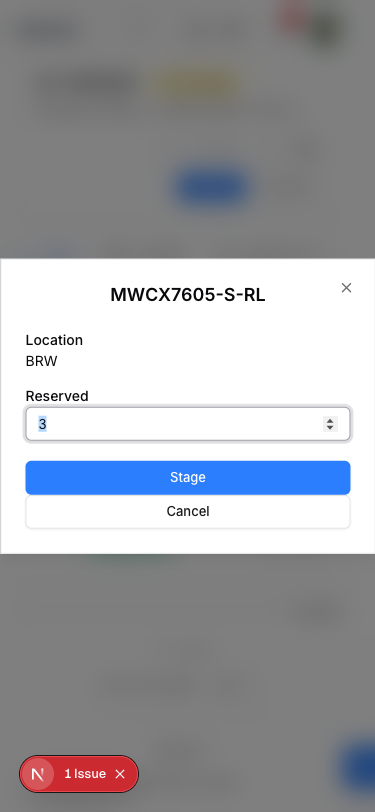
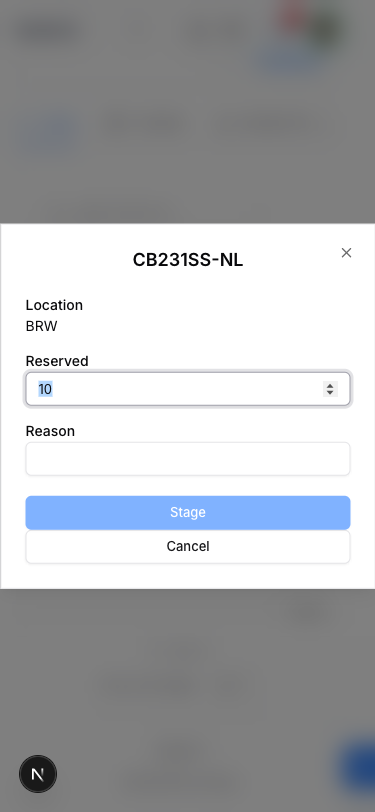
docs(scm): round 4 browser evidence rerun after the 6e.4 fix round (AC-RS-90 in full)
OI-001395 walked from the sidebar at 1280 and 375: three lines requested, the ?reserve=
link preselecting Request to reserve, tick + short pencil committed by Reserve (2), the
outbox row naming both lines with 1 line still to reserve, an amend, History, a Reserve 0
line reading Not reserved and amended up. Explains the Next dev "1 Issue" badge
(pre-existing Demo1Layout key warning). Outbox rows stay pending on the lane (0 sent).
Superseded captures from the first round 4 walk removed.

diff --git a/documentation/plans/scm/evidence/oi-request-cs-reserve/round4/EVIDENCE.md b/documentation/plans/scm/evidence/oi-request-cs-reserve/round4/EVIDENCE.md
@@ -1,55 +1,76 @@
-# Round 4 browser evidence (AC-RS-90)
+# Round 4 browser evidence (AC-RS-90 rerun after the 6e.4 fix round)
 
-agent-browser, session `oireserve-r4`, :3080 from `/` by sidebar (Procurement -> Supply
-Chain -> Order Inquiries), logged in as `tehjayson@gmail.com` (holds both the requester
-and reserve permissions on this stack, so one login covers both roles this walk needs).
-Live OI: `OI-000020` (`fe55c311-7275-4727-8000-4bb5e7501137`), lines MWCX7605-S-RL /
-MWCY7605 / MKT5529SS-DIY, all `ORDER BACK`, qty 3 each - already carrying an OPEN reserve
-request #1 from an earlier session, which is what this walk answers.
+agent-browser 0.27.0, session `oireserve-r4-fix` (closed by name at the end), lane stack
+:3080 (FE, `npm run dev`) and :8080 (BE, `--reload`) from worktree
+`sorento_crm-oi-reserve`, database `sorento_oireserve_stack` at alembic head
+`oirs_0004_reserve_event_zero`. Reached from `/` by sidebar (Procurement -> Supply Chain ->
+Order Inquiries), then the list's All filter and a search for `OI-001395`. Logged in with
+the `E2E_EMAIL` account from `sorento_crm_frontend/.env.local`, which holds both the
+requester (`acknowledge`) and the reserve permission on this stack, so one login plays
+Joey and Eling.
 
-While driving this walk I found and fixed a real backend bug (see "Bug found and fixed"
-below) - the screenshots below are from AFTER that fix, on the live `--reload`d backend.
+Live OI: `OI-001395` (SO400884), four ORDER lines of 36 each at BRW-IR, none ever
+requested before this walk. Grid row order: CSH2072, CSA150, CB231SS-NL, CB4702. The
+three requested lines: line 1 = CSA150, line 2 = CB231SS-NL, line 3 = CB4702. Request
+id `e8f390f5-4232-4b17-9e93-fb6e921f4139` (read from the request mail's own link in
+`email_outbox`).
+
+Outbox rows are never sent from the lane: `ENABLE_SCHEDULER=false`, and the query below
+shows 0 of 5 rows for this OI in status `sent` (all `pending`).
 
 | AC | what was checked | file | result |
 | --- | --- | --- | --- |
-| AC-RS-83 | Lines grid State filtered to "Request to reserve": amber `Request to reserve 3` pills, tick + pencil icons, no header badge | `AC-RS-83-overview-1280.png` (plain `On PO/SPO` pill on an unrelated row, no reserve icons) | PASS |
-| AC-RS-84 | Tick on MWCX7605-S-RL stages `Reserve 3 @ BRW` chip + Undo, no dialog, nothing posted until commit | (see AC-RS-83-84-85 below) | PASS |
-| AC-RS-85 | Pencil on MWCY7605 opens `ReserveLineForm`, Location `SearchableSelect`, Reserved input, Reason field, staged `Reserve 2 @ BRW` chip | `AC-RS-83-84-85-lines-reserved.png` (post-commit state, both chips resolved to green pills) | PASS |
-| AC-RS-87 | Header `Reserve (2)` enabled once 2 rows staged; click posts ONE commit; toast `Reserved, Jayson Foundryx notified`; button greys back to disabled `Reserve` | `AC-RS-87-amend-committed-toast.png` | PASS |
-| n/a | Grid shows `Reserved 3` / `Reserved 2` green pills with tick, `Amend reserve` + `History` icons, after commit | `AC-RS-83-84-85-lines-reserved.png` | PASS |
-| n/a | One outbox row per commit, each naming only the rows THAT call touched, with "N line(s) still to reserve" (AC-RS-80/81) | DB check below | PASS |
-| AC-RS-86 | `Amend reserve` on MWCY7605 (already `Reserved 2`): Location renders as locked plain text `BRW` (no select), Reserved prefilled with the net (2); staged `Amend to 1` + Undo; committed via the SAME header CTA, toast fires again, pill becomes `Reserved 1` | `AC-RS-87-amend-committed-toast.png` (post-commit `Reserved 1`); `AC-RS-86-amend-form-375.png` (the form itself, at 375px, on the still-full row) | PASS |
-| AC-RS-89 | `History` opens `ReserveLineHistoryDialog`, newest first, `formatDateTime` (no raw ISO): `Unreserved 1 @ BRW - transferred back`, `Reserved 2 @ BRW - BRW only has 2 in stock`, `Requested 3 @ BRW` | `AC-RS-89-history-reserve-then-unreserve.png` | PASS |
-| AC-RS-88 | State `SearchableMultiSelect` (7 options in the UAC's own order: To buy, Partly on PO/SPO, On PO/SPO, Done, Cancelled, Request to reserve, Reserved), filters the grid live | `AC-RS-88-state-filter-1280.png` | PASS |
-| AC-RS-90 (375px) | Header `Reserve`/`Confirm` buttons and the Lines tab usable at 375px, no clipping; `ReserveLineForm` opens correctly at 375px (Stage/Cancel full width, no overflow) | `AC-RS-90-mobile-375.png`, `AC-RS-86-amend-form-375.png` | PASS |
+| AC-RS-83b | Before any request: no `Reserve actions` column on the grid (the inquiry has no open request and no reserved / declined line) | `AC-RS-83b-no-action-column-1280.png` | PASS |
+| AC-RS-90 step 1 | Joey ticks the three lines, Actions -> `Request CS to reserve`, dialog lists all three at BRW with availability, `Send request`; toast `Request #1 sent to Teh Jayson` | `AC-RS-90-1-request-three-lines-1280.png` | PASS |
+| AC-RS-88 | Following `?reserve=<request id>`: State filter preselected `Request to reserve`, three amber lines, no dialog, header `Reserve` disabled | `AC-RS-90-2-reserve-link-preselected-1280.png` | PASS |
+| AC-RS-84 | Tick on line 1 stages `Reserve 36 @ BRW` + Undo, nothing posted | `AC-RS-90-3-staged-two-lines-1280.png` | PASS |
+| AC-RS-85b | Pencil on line 2 opens `ReserveLineForm` only after the pools loaded: Reserved prefilled 36 (`min(36, BRW 54)`), Location BRW, Stage enabled | `AC-RS-85b-form-prefilled-1280.png` | PASS |
+| AC-RS-85 | Reserved 20 shows Reason and disables Stage until it is filled; staged `Reserve 20 @ BRW` | `AC-RS-85-form-short-with-reason-1280.png`, `AC-RS-90-3-staged-two-lines-1280.png` | PASS |
+| AC-RS-87 | Header `Reserve (2)` posts ONE commit; toast `Reserved, Teh Jayson notified`; button greys back to `Reserve` | `AC-RS-87-commit-toast-1280.png` | PASS |
+| AC-RS-90 step 2 | Filter cleared (URL loses `?reserve=`): line 1 `Reserved 36` and line 2 `Reserved 20` green with Amend + History, line 3 `Request to reserve 36` amber with tick + pencil; the action column header has no drag grip | `AC-RS-90-4-after-commit-green-amber-1280.png` | PASS |
+| AC-RS-80 | The commit's outbox row names lines 1 and 2 only, reason printed, and says `1 line still to reserve.` | `AC-RS-80-outbox-partial-commit-mail.png`, query below | PASS |
+| AC-RS-86 | Amend on line 2: Location locked (`BRW` text), Reserved prefilled 20 (the request row's own qty), Reason required below 36; staged `Amend to 10`, `Reserve (1)` committed, pill `Reserved 10` | `AC-RS-86-amend-form-1280.png`, `AC-RS-86-amend-form-375.png` | PASS |
+| AC-RS-89 | History on line 2, newest first through `formatDateTime`: `Unreserved 10 @ BRW` (reason), `Reserved 20 @ BRW` (reason), `Requested 36 @ BRW` | `AC-RS-89-history-reserve-then-amend-1280.png` | PASS |
+| AC-RS-83b / 78c | Pencil on line 3, Reserved 0 with a reason, `Reserve (1)`: line 3 reads `Not reserved` (neutral) with Amend + History | `AC-RS-83b-declined-not-reserved-1280.png` | PASS |
+| AC-RS-78b | Amend on the declined line: prefilled 0, set 15 with a reason, `Reserve (1)`: pill `Reserved 15`; History `Reserved 15`, `Reserved 0` (the Reserve 0 decision), `Requested 36` | `AC-RS-90-5-declined-amended-up-1280.png`, `AC-RS-89-history-declined-then-amended-1280.png` | PASS |
+| AC-RS-88 / 88b | State options: To buy, Partly on PO/SPO, On PO/SPO, Done, Request to reserve, Reserved (no Cancelled); `Done` alone reads `No line matches the filter.` | `AC-RS-88-state-filter-1280.png`, `AC-RS-88b-no-line-matches-1280.png` | PASS |
+| AC-RS-90 (375px) | Detail page and Lines tab usable at 375, no clipping (the grid scrolls inside its card); amend form fits, Stage/Cancel full width | `AC-RS-90-6-mobile-375.png`, `AC-RS-86-amend-form-375.png` | PASS |
 
-## Outbox rows (DB, `email_outbox` on `sorento_oireserve_stack`)
-
-Two rows for `Reserved: OI-000020 #1 - SO419851`, one per commit click, each naming only
-that click's own rows (AC-RS-81):
+## Outbox rows (`email_outbox` on `sorento_oireserve_stack`)
 
 ```
-created_at 02:57  to=jayson@foundryx.my cc=elingkoh@sorento.com.my
-  body contains MWCX7605(yes) MWCY7605(yes) MKT5529(no) "1 line still to reserve."(yes)
-created_at 03:07  to=jayson@foundryx.my cc=elingkoh@sorento.com.my
-  body contains MWCX7605(no) MWCY7605(yes) MKT5529(no) "1 line still to reserve."(yes)
+time      subject                                   status   CSA150 CB231SS-NL CB4702 still-to-reserve line
+04:20:04  Reserve request: OI-001395 #1 - SO400884  pending  yes    yes        yes    -
+04:23:56  Reserved: OI-001395 #1 - SO400884         pending  yes    yes        no     1 line still to reserve
+04:25:02  Reserved: OI-001395 #1 - SO400884         pending  no     yes        no     1 line still to reserve
+04:25:53  Reserved: OI-001395 #1 - SO400884         pending  no     no         yes    -
+04:27:44  Reserved: OI-001395 #1 - SO400884         pending  no     no         yes    -
+sent: 0 of 5
 ```
 
-## Bug found and fixed during this walk
+Row 2 is the `Reserve (2)` click (lines 1 and 2), row 3 the amend of line 2, row 4 the
+Reserve 0 on line 3 (the click that completed the request, so no "still to reserve"
+line), row 5 the amend-up of line 3.
 
-`_HAS_OPEN_RESERVE_REQUEST` and the new `_OPEN_REQUEST_QTY`
-(`order_inquiry_worklist_service.py`) tested only "does the row's PARENT request still
-carry state `requested`" - not "is THIS row's own answer still unset". Round 1-3's
-per-row route answered every row of a request in lockstep, so the parent's own state was
-an accurate proxy; round 4's `commit_request` can now answer PART of a request in one
-click while the parent stays `requested` until its last row lands, which the live walk
-surfaced immediately: after committing MWCX7605-S-RL (answered) while MKT5529SS-DIY (same
-request, still open) kept the parent at `requested`, the grid kept showing
-`Request to reserve 3` / the tick+pencil icons on the ALREADY-answered row instead of
-`Reserved 3` / amend+history - confirmed via `console.log` of the raw worklist API
-response (`reserve_state: "requested"` despite `order_inquiry_reserve_request_rows.
-qty_reserved = 3` in the database) and via a direct SQL replay of the subquery. Fixed by
-adding `OrderInquiryReserveRequestRow.qty_reserved.is_(None)` to both subqueries' own
-`WHERE`. Backend suite re-run green after the fix (111 passed:
-`test_order_inquiry_reserve.py` + `_round2.py` + `_commit.py` + `test_order_inquiry_
-worklist.py`); confirmed live via reload (screenshots above are all post-fix).
+## Found and fixed on this walk
+
+- The action column was 90px wide, so the staged chip truncated to a single letter
+  beside Undo. Widened to 240px, the chip carries a `title` (commit `d41a9fed8`); the
+  capture above is after the fix.
+
+## The Next dev "1 Issue" badge
+
+Opened on this walk (`next-dev-issue-overlay.png`): `Console Error: Each child in a list
+should have a unique "key" prop. Check the render method of Demo1Layout.` It appears on
+a full load of the dashboard `/` too, not only on this page, and
+`app/components/layouts/demo1/layout.tsx` is untouched by this lane (`git diff
+origin/main` is empty for it). A pre-existing app-shell dev warning, not caused by this
+feature; it does not show on every load, which is why some captures show the plain `N`
+button instead. Not fixed here (outside the lane).
+
+## Noted, not fixed
+
+- History times read `4:25 AM` for a write made at 12:25 MYT: reserve history
+  `created_at` is written with `datetime.utcnow()` (naive) and printed by
+  `formatDateTime` as if it were local time. Pre-existing since round 2 (events and
+  `requested_at` alike); flagged to the captain.
